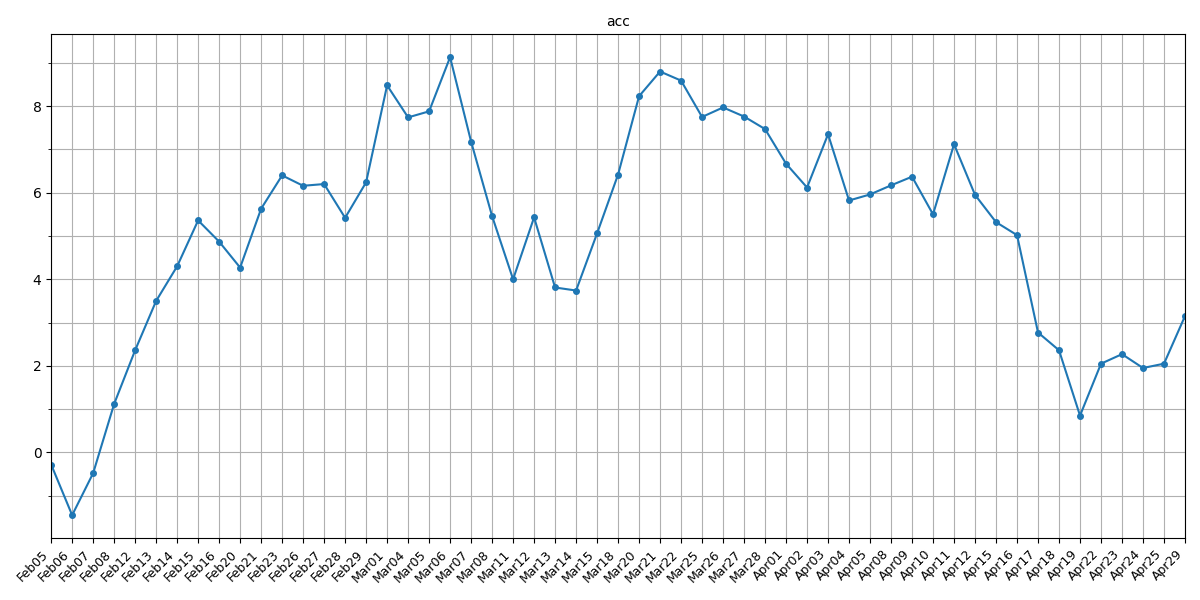
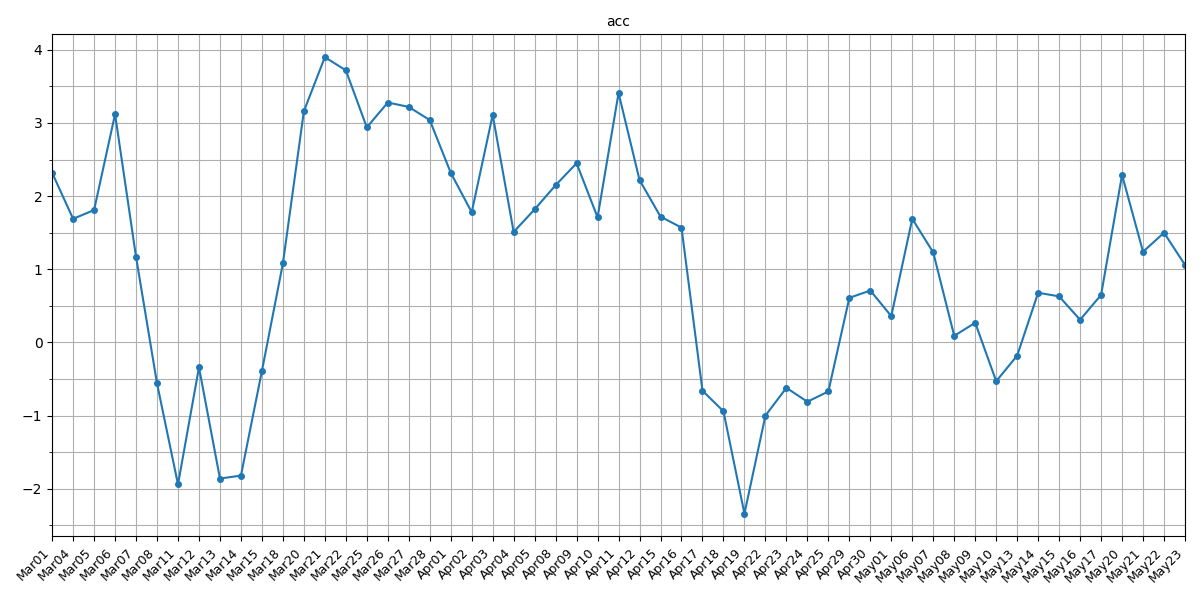
fix(plotting): update file path in plot-acc.py and refresh result images
Changed the file path in plot-acc.py to use sakata.txt instead of main.txt. Updated latest-acc.png and plot-single.png to reflect new data.

Changed region(s): [[0.0, 0.06, 0.9867, 0.99], [0.5858, 0.57, 0.7092, 0.72], [0.74, 0.36, 0.8017, 0.48]]

diff --git a/util/plot-acc.py b/util/plot-acc.py
@@ -6,7 +6,7 @@ from matplotlib.ticker import AutoMinorLocator
 
 
 # ファイルパス
-file_path = "./result/main.txt"
+file_path = "./result/sakata.txt"
 
 with open(file_path, "r", encoding="utf-8") as file:
     # ファイルの内容を1行ずつ読み込む
